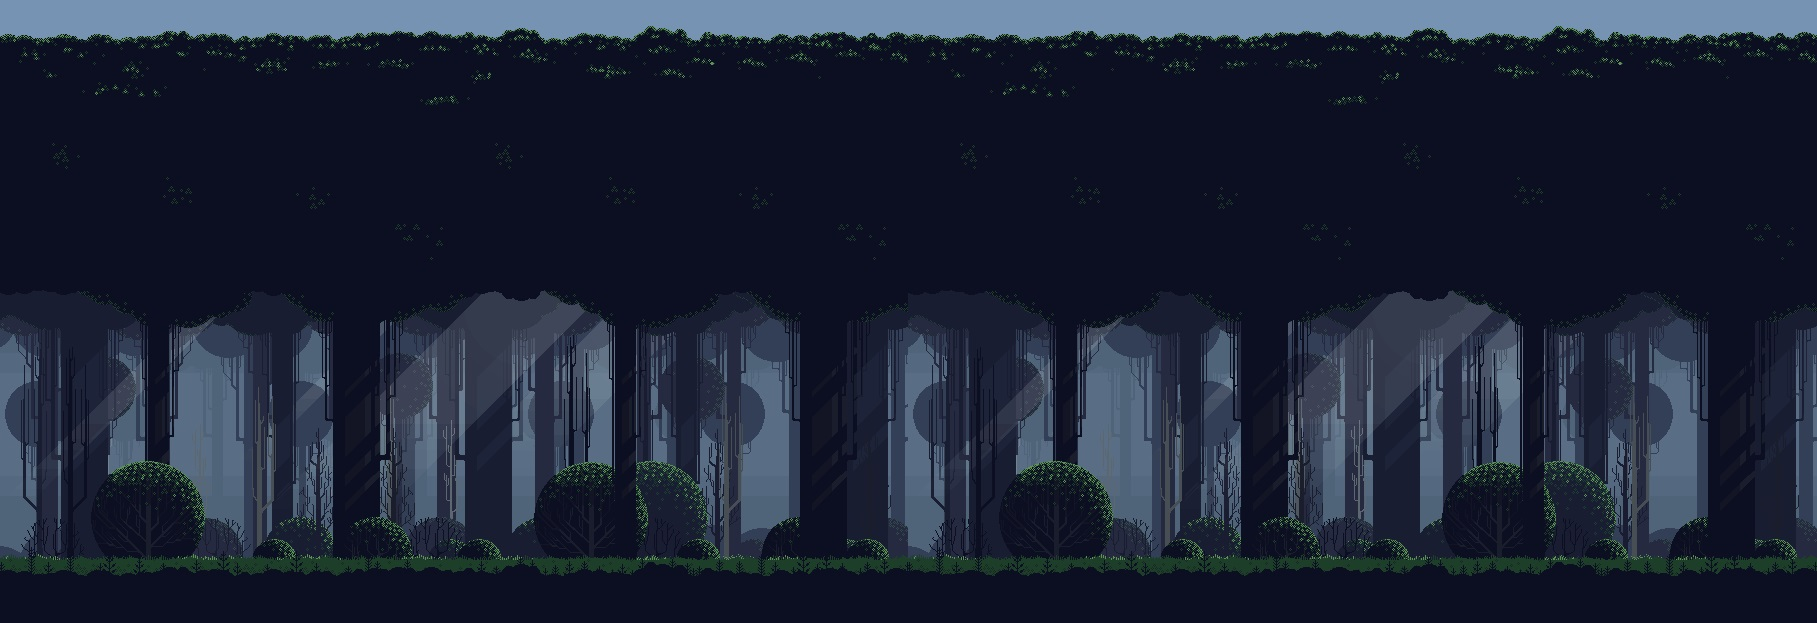
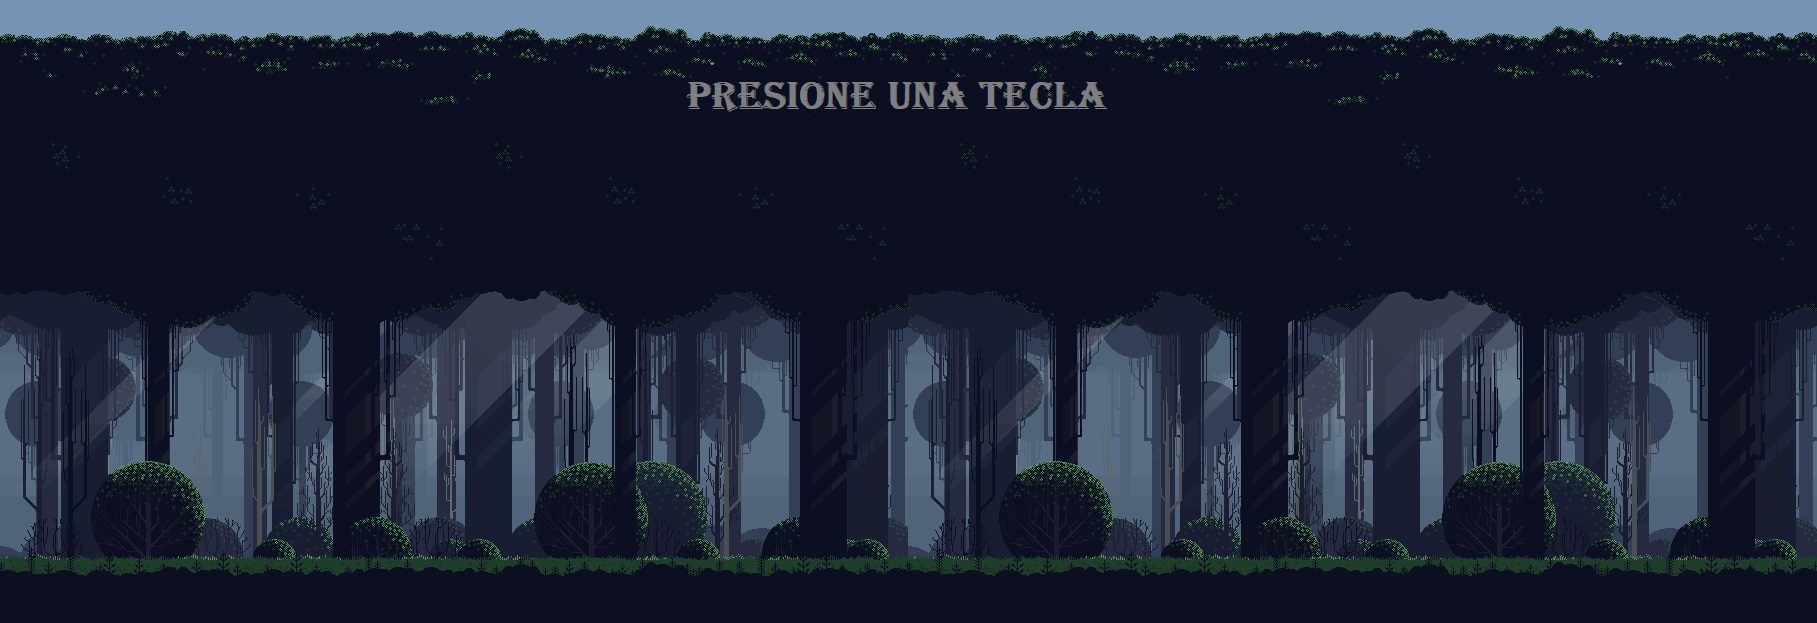
Se mejora la interfaz

Changed region(s): [[0.3698, 0.122, 0.6164, 0.183]]

diff --git a/KYLLERFLYER/mainwindow.cpp b/KYLLERFLYER/mainwindow.cpp
@@ -18,8 +18,7 @@ MainWindow::MainWindow(QWidget *parent)
     usuario->setModal(true);
     usuario->show();
 
-    score();
-    vida();
+
 
     //Creamos la escena
 
@@ -32,10 +31,6 @@ MainWindow::MainWindow(QWidget *parent)
     view->resize(1000, 625);
     //Deshabilitamos la barra
     view->setHorizontalScrollBarPolicy(Qt::ScrollBarAlwaysOff);
-    //Creamos un jugador
-    jugador= new personaje(1);
-    //Lo añadimos a la escena
-    escena->addItem(jugador);
     pMainWindow=this;
     timer=new QTimer();
     connect(timer,SIGNAL(timeout()),this,SLOT(crear_enemigos()));
@@ -44,9 +39,28 @@ MainWindow::MainWindow(QWidget *parent)
 void MainWindow::keyPressEvent(QKeyEvent *event){
 
     if(juego){
+        if(tipo==1){
+            escena->clear();
+            //Creamos un jugador
+            jugador= new personaje(1);
+            //Lo añadimos a la escena
+            escena->addItem(jugador);
+            timer->start(5000);
+            score();
+            vida();
+            ui->pushButton_2->setEnabled(true);
+        }
         if(tipo==2){
+            escena->clear();
+            jugador= new personaje(1);
+            //Lo añadimos a la escena
+            escena->addItem(jugador);
             jugador2=new personaje(2);
             escena->addItem(jugador2);
+            timer->start(5000);
+            score();
+            vida();
+            ui->pushButton_2->setEnabled(true);
         }
         juego=0;
     }
@@ -140,8 +154,6 @@ void MainWindow::keyPressEvent(QKeyEvent *event){
     }
     //El view se centra en la posicion del jugador
     view->centerOn(jugador->x(),jugador->y());
-    //ui->label->setNum(jugador->avatar->x());
-    //ui->label_2->setNum(jugador->avatar->y());
 }
 
 MainWindow *MainWindow::getMainWinPtr()
@@ -163,8 +175,16 @@ void MainWindow::vida()
         escena->addItem(health);
     }
     if(vidas<=0){
-        QMessageBox::about(this,"Game Over","Estas sin vidas");
-        close();
+        ui->pushButton_2->setEnabled(false);
+        timer->stop();
+        if(tipo==1){
+            delete jugador;
+        }
+        else{
+            delete jugador;
+            delete jugador2;
+        }
+        usuario->show();
     }
 }
 
@@ -256,4 +276,10 @@ void MainWindow::on_pushButton_clicked()
     else{
         QMessageBox::about(this,"Error","Ya hay una partida con este nombre");
     }
+}
+
+void MainWindow::on_pushButton_2_clicked()
+{
+    vidas=10;
+    vida();
 }

diff --git a/KYLLERFLYER/dialog.cpp b/KYLLERFLYER/dialog.cpp
@@ -145,6 +145,7 @@ void Dialog::menu_principal()
 
 void Dialog::cargar()
 {
+    ui->comboBox->clear();
     string inf;
     ifstream k("../KYLLERFLYER/"+us+".txt");
     if (k.good()){
@@ -168,7 +169,9 @@ void Dialog::on_pushButton_clicked()
     MainWindow *mv=MainWindow::getMainWinPtr();
     mv->n_usuario=us;
     mv->tipo=1;
-    mv->timer->start(5000);
+    mv->juego=1;
+    mv->vidas=110;
+    mv->puntaje=-10;
     close();
 }
 
@@ -177,13 +180,15 @@ void Dialog::on_pushButton_2_clicked()
     MainWindow *mv=MainWindow::getMainWinPtr();
     mv->tipo=2;
     mv->n_usuario=us;
-    mv->timer->start(5000);
+    mv->juego=1;
+    mv->vidas=110;
+    mv->puntaje=-10;
     close();
 }
 
 void Dialog::on_pushButton_3_clicked()
 {
-    ui->pushButton_3->setEnabled(false);
+    //ui->pushButton_3->setEnabled(false);
     ui->comboBox->setVisible(true);
     cargar();
 
@@ -216,7 +221,12 @@ void Dialog::on_pushButton_4_clicked()
             }
         }
     }
-    mv->vida();
-    mv->score();
+    mv->juego=1;
     close();
+}
+
+void Dialog::on_pushButton_5_clicked()
+{
+    MainWindow *mv=MainWindow::getMainWinPtr();
+    mv->close();
 }

diff --git a/KYLLERFLYER/mainwindow.h b/KYLLERFLYER/mainwindow.h
@@ -40,6 +40,7 @@ public:
     QGraphicsView *view= new QGraphicsView (this);
     string n_usuario;
     QTimer *timer;
+    bool juego=1;
 private:
     static MainWindow * pMainWindow;
     Dialog *usuario;
@@ -53,10 +54,10 @@ private:
     enemigo_caminante *caminante;
     enemigo_saltarin *saltarin;
     enemigo_disparador *disparador;
-    bool juego=1;
 public slots:
     void crear_enemigos();
 private slots:
     void on_pushButton_clicked();
+    void on_pushButton_2_clicked();
 };
 #endif // MAINWINDOW_H

diff --git a/KYLLERFLYER/enemigo_disparador.cpp b/KYLLERFLYER/enemigo_disparador.cpp
@@ -10,6 +10,11 @@ void enemigo_disparador::eliminar()
         delete this;
         return;
     }
+    if(mw->vidas<=0){
+        mw->escena->removeItem(this);
+        delete this;
+        return;
+    }
 }
 
 enemigo_disparador::enemigo_disparador()

diff --git a/KYLLERFLYER/enemigo_caminante.cpp b/KYLLERFLYER/enemigo_caminante.cpp
@@ -11,6 +11,11 @@ void enemigo_caminante::eliminar()
         delete this;
         return;
     }
+    if(mw->vidas<=0){
+        mw->escena->removeItem(this);
+        delete this;
+        return;
+    }
 }
 
 enemigo_caminante::enemigo_caminante()

diff --git a/KYLLERFLYER/enemigo_saltarin.cpp b/KYLLERFLYER/enemigo_saltarin.cpp
@@ -10,6 +10,11 @@ void enemigo_saltarin::eliminar()
         delete this;
         return;
     }
+    if(mw->vidas<=0){
+        mw->escena->removeItem(this);
+        delete this;
+        return;
+    }
 }
 
 enemigo_saltarin::enemigo_saltarin()

diff --git a/KYLLERFLYER/enemigo_volador.cpp b/KYLLERFLYER/enemigo_volador.cpp
@@ -10,6 +10,11 @@ void enemigo_volador::eliminar()
         delete this;
         return;
     }
+    if(mw->vidas<=0){
+        mw->escena->removeItem(this);
+        delete this;
+        return;
+    }
 }
 
 enemigo_volador::enemigo_volador()

diff --git a/KYLLERFLYER/bala_horizontal.cpp b/KYLLERFLYER/bala_horizontal.cpp
@@ -57,6 +57,11 @@ void bala_horizontal::borrar()
         delete this;
         return;
     }
+    if(mv->vidas<=0){
+        mv->escena->removeItem(this);
+        delete this;
+        return;
+    }
 }
 
 void bala_horizontal::movimiento()

diff --git a/KYLLERFLYER/bala_parabolica.cpp b/KYLLERFLYER/bala_parabolica.cpp
@@ -59,6 +59,11 @@ void bala_parabolica::borrar()
         delete this;
         return;
     }
+    if(mv->vidas<=0){
+        mv->escena->removeItem(this);
+        delete this;
+        return;
+    }
 }
 
 void bala_parabolica::movimiento()

diff --git a/KYLLERFLYER/bala_vertical.cpp b/KYLLERFLYER/bala_vertical.cpp
@@ -55,6 +55,11 @@ void bala_vertical::borrar()
         delete this;
         return;
     }
+    if(mv->vidas<=0){
+        mv->escena->removeItem(this);
+        delete this;
+        return;
+    }
 }
 
 void bala_vertical::movimiento()

diff --git a/KYLLERFLYER/bala_caida.cpp b/KYLLERFLYER/bala_caida.cpp
@@ -59,6 +59,11 @@ void bala_caida::borrar()
         delete this;
         return;
     }
+    if(mv->vidas<=0){
+        mv->escena->removeItem(this);
+        delete this;
+        return;
+    }
 }
 
 void bala_caida::movimiento()

diff --git a/KYLLERFLYER/dialog.h b/KYLLERFLYER/dialog.h
@@ -34,6 +34,8 @@ private slots:
 
     void on_pushButton_4_clicked();
 
+    void on_pushButton_5_clicked();
+
 private:
     bool iniciar(string susuario,string scontrasena);
     bool registrar(string susuario,string scontrasena);
